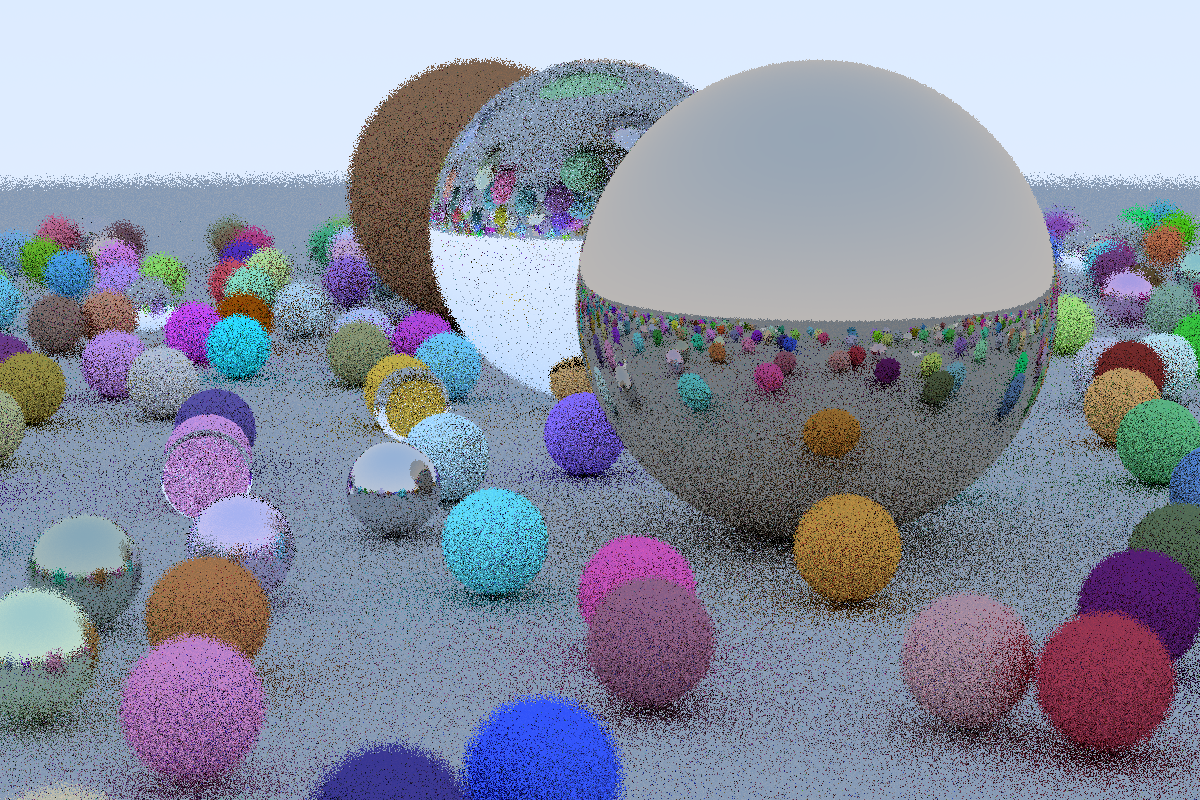
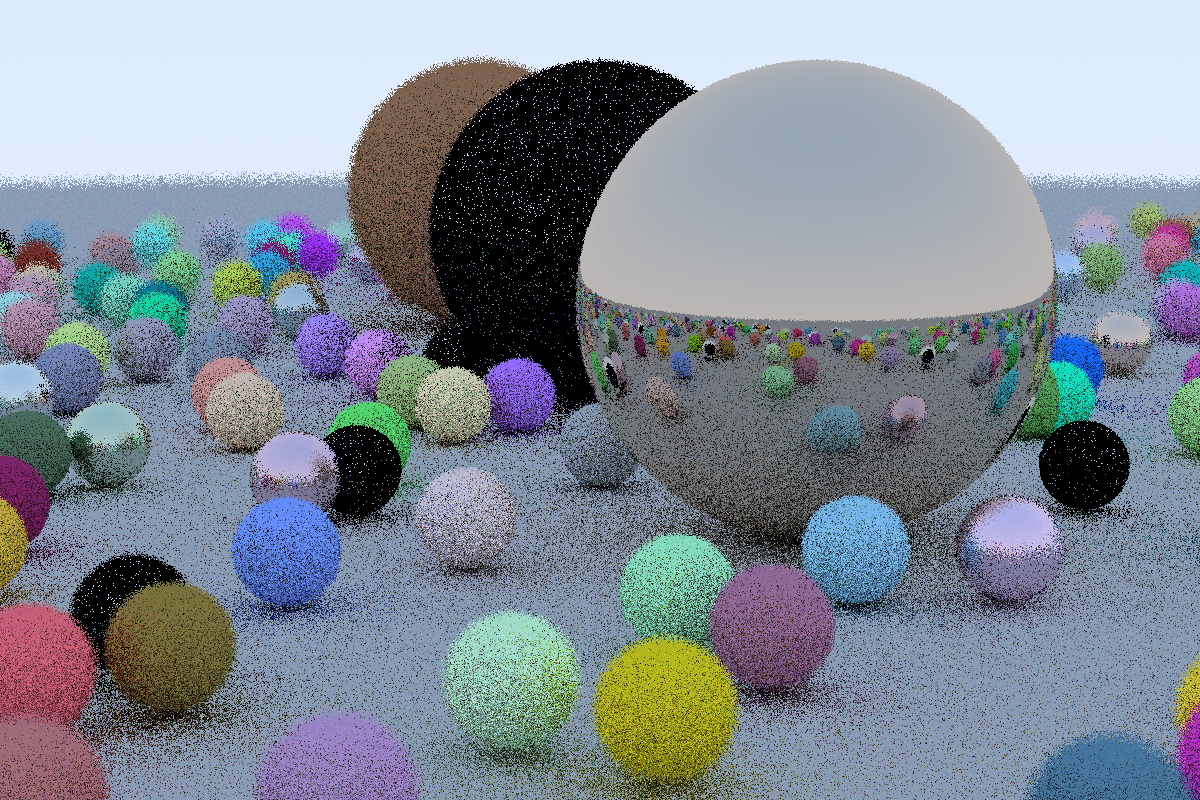
remove rc and box

diff --git a/src/main.rs b/src/main.rs
@@ -9,7 +9,6 @@ mod vec3;
 use camera::*;
 use color::*;
 use hittable_list::*;
-use log::Log;
 use material::*;
 use ray::*;
 use simple_logger::SimpleLogger;
@@ -22,11 +21,11 @@ fn random_scene() -> Box<HittableList> {
     let mut world = Box::new(HittableList::new());
 
     let materail_ground = Box::new(Lambertian::new(Color::new(0.5, 0.5, 0.5)));
-    world.add(Box::new(Sphere::new(
-        Vec3::new(0.0, -1000.0, -0.0),
-        1000.0,
-        Some(materail_ground),
-    )));
+    world.add(Box::new(Sphere {
+        center: Vec3::new(0.0, -1000.0, -0.0),
+        radius: 1000.0,
+        mat: materail_ground,
+    }));
 
     for i in -11..11 {
         for j in -11..11 {
@@ -41,40 +40,52 @@ fn random_scene() -> Box<HittableList> {
                 if random_mat < 0.8 {
                     let albedo = Color::random();
                     let mat = Box::new(Lambertian::new(albedo));
-                    world.add(Box::new(Sphere::new(center, 0.2, Some(mat))));
+                    world.add(Box::new(Sphere {
+                        center,
+                        radius: 0.2,
+                        mat,
+                    }));
                 } else if random_mat < 0.95 {
                     let albedo = Color::random_range(0.5, 0.9);
                     let fuzz = get_random_number_range(0.0, 0.5);
                     let mat = Box::new(Metal::new(albedo, fuzz));
-                    world.add(Box::new(Sphere::new(center, 0.2, Some(mat))));
+                    world.add(Box::new(Sphere {
+                        center,
+                        radius: 0.2,
+                        mat,
+                    }));
                 } else {
                     let mat = Box::new(Dielectric::new(1.5));
-                    world.add(Box::new(Sphere::new(center, 0.2, Some(mat))));
+                    world.add(Box::new(Sphere {
+                        center,
+                        radius: 0.2,
+                        mat,
+                    }));
                 }
             }
         }
     }
 
     let mat1 = Box::new(Dielectric::new(1.5));
-    world.add(Box::new(Sphere::new(
-        Vec3::new(0.0, 1.0, 0.0),
-        1.0,
-        Some(mat1),
-    )));
+    world.add(Box::new(Sphere {
+        center: Vec3::new(0.0, 1.0, 0.0),
+        radius: 1.0,
+        mat: mat1,
+    }));
 
     let mat2 = Box::new(Lambertian::new(Color::new(0.4, 0.2, 0.1)));
-    world.add(Box::new(Sphere::new(
-        Vec3::new(-4.0, 1.0, 0.0),
-        1.0,
-        Some(mat2),
-    )));
+    world.add(Box::new(Sphere {
+        center: Vec3::new(-4.0, 1.0, 0.0),
+        radius: 1.0,
+        mat: mat2,
+    }));
 
     let mat3 = Box::new(Metal::new(Color::new(0.7, 0.6, 0.5), 0.0));
-    world.add(Box::new(Sphere::new(
-        Vec3::new(4.0, 1.0, 0.0),
-        1.0,
-        Some(mat3),
-    )));
+    world.add(Box::new(Sphere {
+        center: Vec3::new(4.0, 1.0, 0.0),
+        radius: 1.0,
+        mat: mat3,
+    }));
     world
 }
 fn main() {
@@ -83,7 +94,7 @@ fn main() {
     let ratio = 3.0 / 2.0;
     let image_width = 1200;
     let image_height = (image_width as f64 / ratio) as u32;
-    let samper_per_pixel = 1;
+    let samper_per_pixel = 50;
     let max_depth = 10;
 
     let world = random_scene();

diff --git a/src/utils.rs b/src/utils.rs
@@ -1,35 +1,26 @@
 use super::color::*;
 use super::hittable_list::*;
 use super::ray::*;
-use super::sphere::*;
 use super::vec3::*;
-use std::rc::Rc;
 
 pub fn ray_color(ray_in: &Ray, world: &HittableList, depth: i32) -> Color {
     if depth <= 0 {
         return Color::default();
     }
-    if world.hit(*ray_in, 0.0001, f64::INFINITY, &mut rec) {
-        // let target = rec.p + rec.normal + uini_vec3(&random_in_unit_sphere());
-        // let new_ray_dir = target - rec.p;
-        // let new_ray = Ray::new(&rec.p, &new_ray_dir);
-        // return ray_color(&new_ray, world, depth - 1) * 0.5;
-
+    if let Some(ret) = world.hit(*ray_in, 0.0001, f64::MAX) {
         let mut scattered = Ray::new(&Vec3::default(), &Vec3::default());
         let mut color = Color::default();
-        let mat = rec.mat.clone();
-        if let Some(x) = &(*mat) {
-            if (*x).scatter(ray_in, &mut rec, &mut color, &mut scattered) {
-                return ray_color(&scattered, world, depth - 1) * color;
-            }
-            return Color::new(0.0, 0.0, 0.0);
+        if ret.mat.scatter(ray_in, &ret, &mut color, &mut scattered) {
+            ray_color(&scattered, world, depth - 1) * color
+        } else {
+            Color::default()
         }
+    } else {
+        let unit_ray = uini_vec3(&ray_in.dir);
+        let t = 0.5 * (unit_ray.y + 1.0);
+        let t1 = 1.0 - t;
+        Color::new(t1 * 1.0 + t * 0.5, t1 * 1.0 + t * 0.7, t1 * 1.0 + t * 1.0)
     }
-
-    let unit_ray = uini_vec3(&ray_in.dir);
-    let t = 0.5 * (unit_ray.y + 1.0);
-    let t1 = 1.0 - t;
-    Color::new(t1 * 1.0 + t * 0.5, t1 * 1.0 + t * 0.7, t1 * 1.0 + t * 1.0)
 }
 
 pub fn get_random_number() -> f64 {

diff --git a/src/hittable_list.rs b/src/hittable_list.rs
@@ -1,6 +1,5 @@
 use super::sphere::*;
 use super::*;
-use std::rc::Rc;
 
 pub struct HittableList {
     objects: Vec<Box<dyn Hittable>>,
@@ -12,25 +11,20 @@ impl HittableList {
             objects: Vec::new(),
         }
     }
-    pub fn clear(&mut self) {
-        self.objects.clear()
-    }
 
     pub fn add(&mut self, obj: Box<dyn Hittable>) {
         self.objects.push(obj);
     }
 
-    pub fn hit(&self, ray: Ray, t_min: f64, t_max: f64, hit_record: &mut HitRecord) -> bool {
-        let mut hit_anythings = false;
+    pub fn hit(&self, ray: Ray, t_min: f64, t_max: f64) -> Option<HitRecord> {
         let mut closest_so_far = t_max;
-        for obj in self.objects.iter() {
-            let mut temp_rec = HitRecord{ma}
-            if obj.hit(ray, t_min, closest_so_far, &mut temp_rec) {
-                hit_anythings = true;
-                closest_so_far = temp_rec.t;
-                *hit_record = temp_rec;
+        let mut hit_rec :Option<HitRecord> = None;
+        for obj in &self.objects {
+            if let Some(rec)  = obj.hit(ray, t_min, closest_so_far) {
+                closest_so_far = rec.t;
+                hit_rec = Some(rec);
             }
         }
-        hit_anythings
+        hit_rec
     }
 }

diff --git a/src/material.rs b/src/material.rs
@@ -76,7 +76,7 @@ impl Material for Dielectric {
         _scattered: &mut Ray,
     ) -> bool {
         *_color = Color::new(1.0, 1.0, 1.0);
-        let _refaction_ratio = if rec.front_face {
+        let _refaction_ratio = if Vec3::dot(rec.normal, ray.dir) > 0.0 {
             1.0 / self.ir
         } else {
             self.ir
@@ -89,17 +89,15 @@ impl Material for Dielectric {
         );
         let _sin_theta = (1.0 - _cos_theta.powi(2)).sqrt();
 
-        let mut direction = Vec3::default();
         let cannot_refract = _refaction_ratio * _sin_theta > 1.0;
 
-        if cannot_refract
+        let direction = if cannot_refract
             || Dielectric::reflectance(_cos_theta, _refaction_ratio) > get_random_number()
         {
-            direction = _unit_dir.reflect(rec.normal);
+            _unit_dir.reflect(rec.normal)
         } else {
-            direction = _unit_dir.refract(rec.normal, _refaction_ratio);
-        }
-
+            _unit_dir.refract(rec.normal, _refaction_ratio)
+        };
         *_scattered = Ray::new(&rec.p, &direction);
         true
     }

diff --git a/src/sphere.rs b/src/sphere.rs
@@ -2,7 +2,6 @@ use super::ray::*;
 use super::vec3::Vec3;
 use crate::material::*;
 use std::borrow::Borrow;
-use std::rc::Rc;
 pub struct HitRecord<'a> {
     pub p: Vec3,
     pub normal: Vec3,
